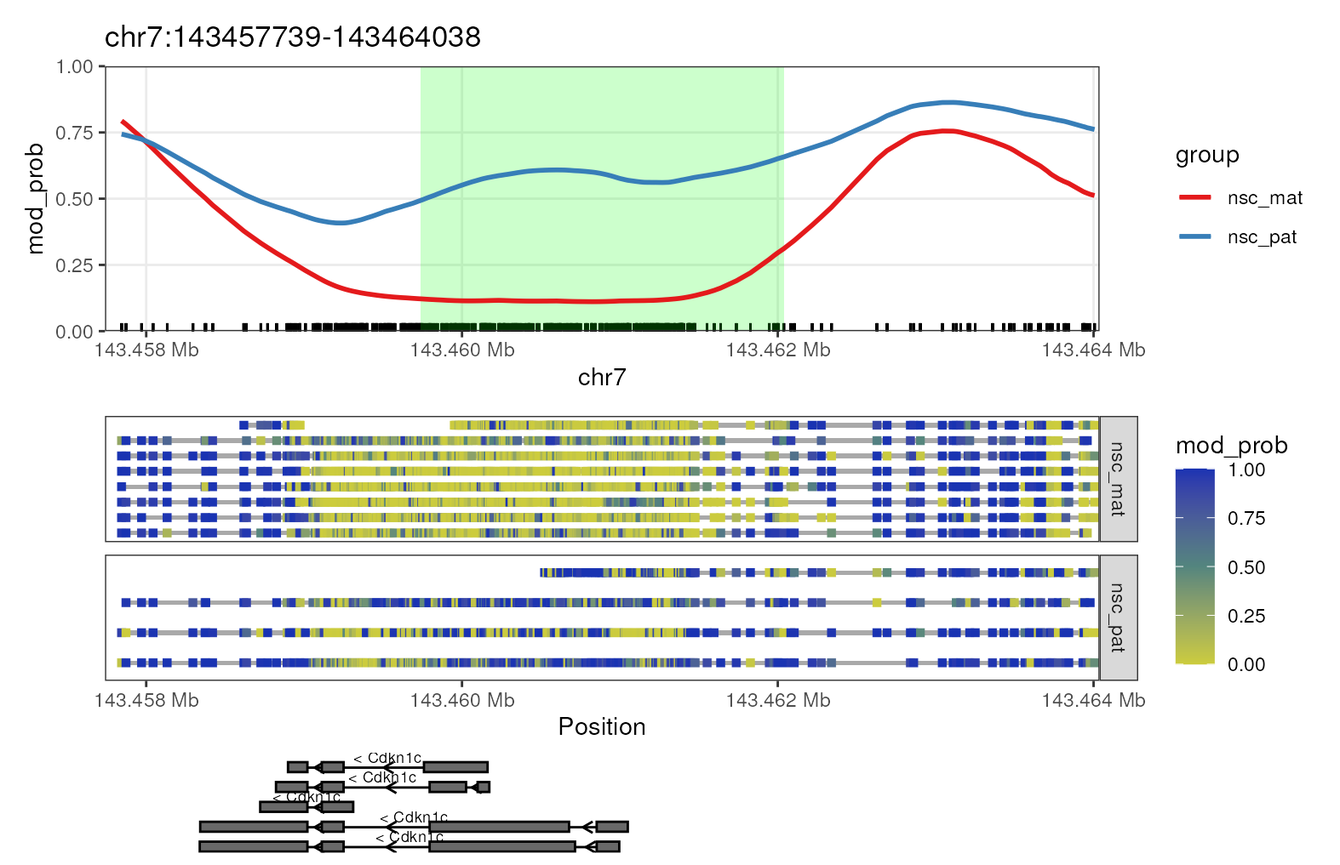
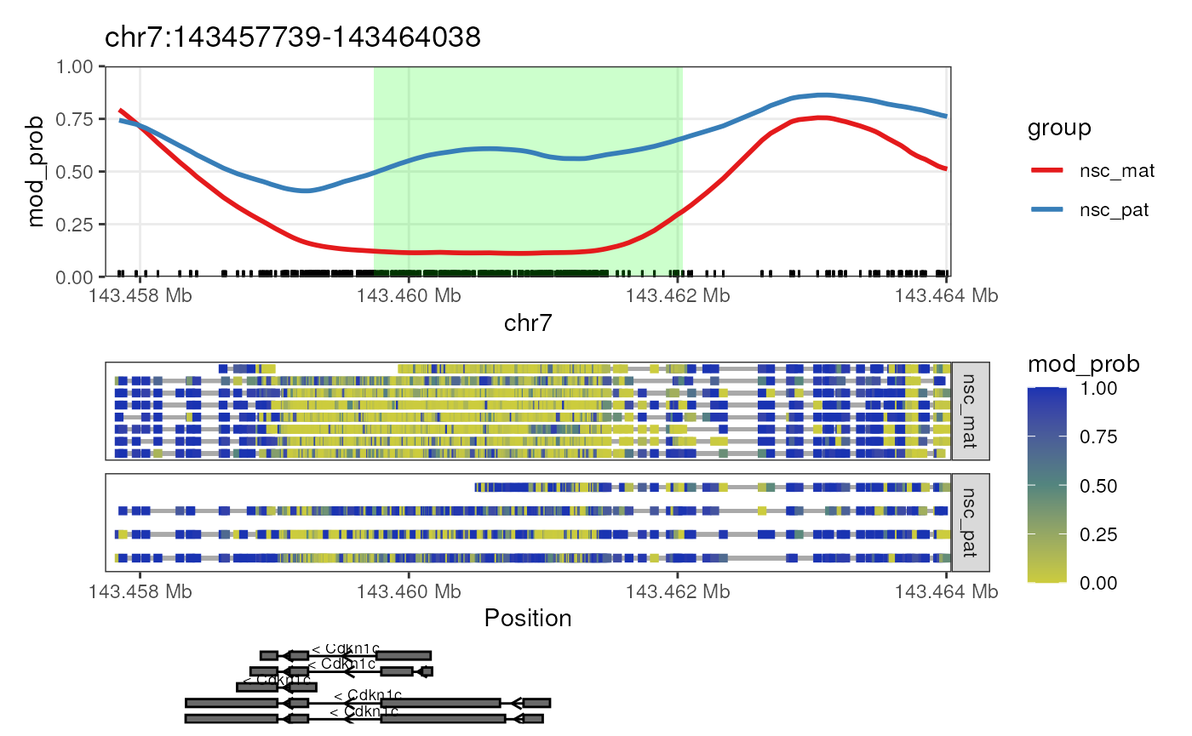
Deploying to gh-pages from @ mritchielab/LongMod123@ba4b5e0acd3b9cd36ce7c9ea2ae0c56e58bad41e 🚀

diff --git a/articles/workflow.html b/articles/workflow.html
@@ -76,24 +76,77 @@
     <div class="page-header toc-ignore">
       <h1 data-toc-skip>A streamlined workflow for long-read DNA
 methylation analysis with NanoMethViz and Bioconductor</h1>
-                        <h4 data-toc-skip class="author">Shian
-Su<sup>1</sup>, Lucinda Xiao<sup>1</sup>, James Lancaster<sup>1</sup>,
-Tamara Cameron<sup>1</sup>, Kelsey Breslin<sup>1</sup>, Peter F.
-Hickey<sup>1</sup>, Marnie E. Blewitt<sup>1</sup>, Quentin
-Gouil<sup>1</sup>, Matthew E. Ritchie<sup>1</sup>
-</h4>
-            
+                        <h4 data-toc-skip class="author">Shian Su</h4>
+            <address class="author_afil">
+      The Walter and Eliza Hall Institute of Medical Research,
+Parkville, Victoria, Australia; Department of Medical Biology, The
+University of Melbourne, Parkville, Victoria,
+Australia<br><h4 data-toc-skip class="author">Lucinda
+Xiao</h4>
+            <address class="author_afil">
+      The Walter and Eliza Hall Institute of Medical Research,
+Parkville, Victoria, Australia; Department of Medical Biology, The
+University of Melbourne, Parkville, Victoria,
+Australia<br><h4 data-toc-skip class="author">James
+Lancaster</h4>
+            <address class="author_afil">
+      The Walter and Eliza Hall Institute of Medical Research,
+Parkville, Victoria, Australia; Department of Medical Biology, The
+University of Melbourne, Parkville, Victoria,
+Australia<br><h4 data-toc-skip class="author">Tamara
+Cameron</h4>
+            <address class="author_afil">
+      The Walter and Eliza Hall Institute of Medical Research,
+Parkville, Victoria, Australia; Department of Medical Biology, The
+University of Melbourne, Parkville, Victoria,
+Australia<br><h4 data-toc-skip class="author">Kelsey
+Breslin</h4>
+            <address class="author_afil">
+      The Walter and Eliza Hall Institute of Medical Research,
+Parkville, Victoria, Australia; Department of Medical Biology, The
+University of Melbourne, Parkville, Victoria,
+Australia<br><h4 data-toc-skip class="author">Peter
+F. Hickey</h4>
+            <address class="author_afil">
+      The Walter and Eliza Hall Institute of Medical Research,
+Parkville, Victoria, Australia; Department of Medical Biology, The
+University of Melbourne, Parkville, Victoria,
+Australia<br><h4 data-toc-skip class="author">Marnie
+E. Blewitt</h4>
+            <address class="author_afil">
+      The Walter and Eliza Hall Institute of Medical Research,
+Parkville, Victoria, Australia; Department of Medical Biology, The
+University of Melbourne, Parkville, Victoria,
+Australia<br><h4 data-toc-skip class="author">Quentin
+Gouil</h4>
+            <address class="author_afil">
+      The Walter and Eliza Hall Institute of Medical Research,
+Parkville, Victoria, Australia; Department of Medical Biology, The
+University of Melbourne, Parkville, Victoria,
+Australia<br><h4 data-toc-skip class="author">Matthew
+E. Ritchie</h4>
+            <address class="author_afil">
+      The Walter and Eliza Hall Institute of Medical Research,
+Parkville, Victoria, Australia; Department of Medical Biology, The
+University of Melbourne, Parkville, Victoria,
+Australia<br><h4 data-toc-skip class="date">13 Nov 2024</h4>
       
-      <small class="dont-index">Source: <a href="https://github.com/mritchielab/LongMod123/blob/v1.0.0/vignettes/workflow.rmd" class="external-link"><code>vignettes/workflow.rmd</code></a></small>
+      <small class="dont-index">Source: <a href="https://github.com/mritchielab/LongMod123/blob/main/vignettes/workflow.rmd" class="external-link"><code>vignettes/workflow.rmd</code></a></small>
       <div class="hidden name"><code>workflow.rmd</code></div>
 
-    </div>
+    </address>
+</address>
+</address>
+</address>
+</address>
+</address>
+</address>
+</address>
+</address>
+</div>
 
     
     
-<p><sup>1</sup>The Walter and Eliza Hall Institute of Medical Research,
-Parkville, Victoria, Australia and Department of Medical Biology, The
-University of Melbourne, Parkville, Victoria, Australia.</p>
 <div class="section level2">
 <h2 id="abstract">Abstract<a class="anchor" aria-label="anchor" href="#abstract"></a>
 </h2>
@@ -198,7 +251,7 @@ reference genome, and phased with WhatsHap <span class="citation">(14)</span>, t
 the data focusing on chromosome 7, which contains several known
 imprinted genes.</p>
 <div class="figure">
-<img src="Figure1.png" alt="**Overview of the workflow**. (A) Experimental setup for the data used in this workflow, from Gocuk and Lancaster et al., 2024. (B) Flowchart of the workflow for long-read methylation data visualisation and analysis using `NanoMethViz` and other Bioconductor packages including `limma`, `dmrseq`, `bsseq`, and `edgeR`. (C) Summary of data structures for the storage of methylation data used in different parts of the workflow. Xi: inactive X. Xa: active X. CAST: Castaneus. 5mC: 5-methylcytosine. MDS: multidimensional scaling. DMR: differentially methylated region. Figure created with [BioRender.com](BioRender.com)." width="600"><p class="caption">
+<img src="Figure1.png" alt="**Overview of the workflow**. (A) Experimental setup for the data used in this workflow, from Gocuk and Lancaster et al., 2024. (B) Flowchart of the workflow for long-read methylation data visualisation and analysis using `NanoMethViz` and other Bioconductor packages including `limma`, `dmrseq`, `bsseq`, and `edgeR`. (C) Summary of data structures for the storage of methylation data used in different parts of the workflow. Xi: inactive X. Xa: active X. CAST: Castaneus. 5mC: 5-methylcytosine. MDS: multidimensional scaling. DMR: differentially methylated region. Figure created with [BioRender.com](BioRender.com)." width="1246"><p class="caption">
 <strong>Overview of the workflow</strong>. (A) Experimental setup for
 the data used in this workflow, from Gocuk and Lancaster et al., 2024.
 (B) Flowchart of the workflow for long-read methylation data
@@ -332,7 +385,7 @@ track showing the isoforms of the gene if exon annotation is provided
 <div class="sourceCode" id="cb10"><pre class="downlit sourceCode r">
 <code class="sourceCode R"><span><span class="fu"><a href="https://shians.github.io/NanoMethViz/reference/plot_gene.html" class="external-link">plot_gene</a></span><span class="op">(</span><span class="va">mbr</span>, <span class="st">"Peg3"</span><span class="op">)</span></span></code></pre></div>
 <div class="figure">
-<img src="workflow_files/figure-html/fig2-gene-peg3-1.png" alt="**Gene-level plot of Peg3**. This plot shows the methylation information along the *Peg3* gene on chromosome 7. The top track shows a rolling-smoothed average of methylation probability across the region, aggregated across samples within each experimental group. The middle track shows a heatmap of the methylation probabilities within individual reads, separated by experimental group. The bottom track shows isoform annotations for *Peg3*, with rectangles representing exons, lines representing introns and arrows representing the direction of transcription." width="600"><p class="caption">
+<img src="workflow_files/figure-html/fig2-gene-peg3-1.png" alt="**Gene-level plot of Peg3**. This plot shows the methylation information along the *Peg3* gene on chromosome 7. The top track shows a rolling-smoothed average of methylation probability across the region, aggregated across samples within each experimental group. The middle track shows a heatmap of the methylation probabilities within individual reads, separated by experimental group. The bottom track shows isoform annotations for *Peg3*, with rectangles representing exons, lines representing introns and arrows representing the direction of transcription." width="700"><p class="caption">
 <strong>Gene-level plot of Peg3</strong>. This plot shows the
 methylation information along the <em>Peg3</em> gene on chromosome 7.
 The top track shows a rolling-smoothed average of methylation
@@ -421,7 +474,7 @@ modification probability.</p>
 <code class="sourceCode R"><span><span class="va">gene_anno</span> <span class="op">&lt;-</span> <span class="fu"><a href="https://shians.github.io/NanoMethViz/reference/exons_to_genes.html" class="external-link">exons_to_genes</a></span><span class="op">(</span><span class="fu"><a href="https://shians.github.io/NanoMethViz/reference/exons.html" class="external-link">exons</a></span><span class="op">(</span><span class="va">nmr</span><span class="op">)</span><span class="op">)</span></span>
 <span><span class="fu"><a href="https://shians.github.io/NanoMethViz/reference/plot_agg_regions.html" class="external-link">plot_agg_regions</a></span><span class="op">(</span><span class="va">nmr</span>, regions <span class="op">=</span> <span class="fu"><a href="https://dplyr.tidyverse.org/reference/slice.html" class="external-link">slice_sample</a></span><span class="op">(</span><span class="va">gene_anno</span>, n <span class="op">=</span> <span class="fl">200</span><span class="op">)</span>, group_col <span class="op">=</span> <span class="st">"group"</span><span class="op">)</span></span></code></pre></div>
 <div class="figure">
-<img src="workflow_files/figure-html/fig3-gene-agg-1.png" alt="**Aggregated gene-level plot**. The mean methylation proportion is shown across a sample of 200 genes in chromosome 7, aggregated by experimental group. Methylation proportions are individual CpG sites are calculated along relative genomic positions, with fixed flanking regions, then averaged across all genes in each experimental group to produce a smoothed trendline. The x-axis label gives the average width and standard deviation of widths of the features used." width="600"><p class="caption">
+<img src="workflow_files/figure-html/fig3-gene-agg-1.png" alt="**Aggregated gene-level plot**. The mean methylation proportion is shown across a sample of 200 genes in chromosome 7, aggregated by experimental group. Methylation proportions are individual CpG sites are calculated along relative genomic positions, with fixed flanking regions, then averaged across all genes in each experimental group to produce a smoothed trendline. The x-axis label gives the average width and standard deviation of widths of the features used." width="700"><p class="caption">
 <strong>Aggregated gene-level plot</strong>. The mean methylation
 proportion is shown across a sample of 200 genes in chromosome 7,
 aggregated by experimental group. Methylation proportions are individual
@@ -469,7 +522,7 @@ the mean methylation profile across CpG islands on chromosome 7 (Figure
 <div class="sourceCode" id="cb17"><pre class="downlit sourceCode r">
 <code class="sourceCode R"><span><span class="fu"><a href="https://shians.github.io/NanoMethViz/reference/plot_agg_regions.html" class="external-link">plot_agg_regions</a></span><span class="op">(</span><span class="va">nmr</span>, <span class="va">cgi_anno</span>, group_col <span class="op">=</span> <span class="st">"group"</span><span class="op">)</span></span></code></pre></div>
 <div class="figure">
-<img src="workflow_files/figure-html/fig4-cgi-agg-1.png" alt="**Aggregated CpG island-level plot**. The mean methylation proportion is shown across CpG islands on chromosome 7, aggregated by experimental group. Methylation proportions are individual CpG sites are calculated along relative genomic positions, with fixed flanking regions, then averaged across all CpG islands in each experimental group to produce a smoothed trendline." width="600"><p class="caption">
+<img src="workflow_files/figure-html/fig4-cgi-agg-1.png" alt="**Aggregated CpG island-level plot**. The mean methylation proportion is shown across CpG islands on chromosome 7, aggregated by experimental group. Methylation proportions are individual CpG sites are calculated along relative genomic positions, with fixed flanking regions, then averaged across all CpG islands in each experimental group to produce a smoothed trendline." width="700"><p class="caption">
 <strong>Aggregated CpG island-level plot</strong>. The mean methylation
 proportion is shown across CpG islands on chromosome 7, aggregated by
 experimental group. Methylation proportions are individual CpG sites are
@@ -557,7 +610,7 @@ create the MDS plot (Figure @ref(fig:fig5-mds)).</p>
 <span></span>
 <span><span class="fu"><a href="https://shians.github.io/NanoMethViz/reference/plot_mds.html" class="external-link">plot_mds</a></span><span class="op">(</span><span class="va">lmr</span>, groups <span class="op">=</span> <span class="va">bss</span><span class="op">$</span><span class="va">group</span><span class="op">)</span></span></code></pre></div>
 <div class="figure">
-<img src="workflow_files/figure-html/fig5-mds-1.png" alt="**MDS plot**, The multi-dimensional plot is created based on the top 500 most variable genes in on chromosome 7 in terms of log-methylation-ratio over the gene bodies. The samples are coloured by group, and distances between samples is reflective of the difference in the methylation profile across genes in each sample." width="600"><p class="caption">
+<img src="workflow_files/figure-html/fig5-mds-1.png" alt="**MDS plot**, The multi-dimensional plot is created based on the top 500 most variable genes in on chromosome 7 in terms of log-methylation-ratio over the gene bodies. The samples are coloured by group, and distances between samples is reflective of the difference in the methylation profile across genes in each sample." width="700"><p class="caption">
 <strong>MDS plot</strong>, The multi-dimensional plot is created based
 on the top 500 most variable genes in on chromosome 7 in terms of
 log-methylation-ratio over the gene bodies. The samples are coloured by
@@ -727,7 +780,7 @@ regions fall near the TSS.</p>
 <span> <span class="fu">patchwork</span><span class="fu">::</span><span class="fu"><a href="https://patchwork.data-imaginist.com/reference/wrap_elements.html" class="external-link">wrap_elements</a></span><span class="op">(</span><span class="fu"><a href="https://shians.github.io/NanoMethViz/reference/plot_gene.html" class="external-link">plot_gene</a></span><span class="op">(</span><span class="va">nmr</span>, <span class="st">"Kcnq1ot1"</span>, anno_regions <span class="op">=</span> <span class="va">signif_regions</span><span class="op">)</span><span class="op">)</span> <span class="op">/</span></span>
 <span> <span class="fu">patchwork</span><span class="fu">::</span><span class="fu"><a href="https://patchwork.data-imaginist.com/reference/wrap_elements.html" class="external-link">wrap_elements</a></span><span class="op">(</span><span class="fu"><a href="https://shians.github.io/NanoMethViz/reference/plot_gene.html" class="external-link">plot_gene</a></span><span class="op">(</span><span class="va">nmr</span>, <span class="st">"Cdkn1c"</span>, anno_regions <span class="op">=</span> <span class="va">signif_regions</span><span class="op">)</span><span class="op">)</span><span class="op">)</span></span></code></pre></div>
 <div class="figure">
-<img src="workflow_files/figure-html/fig6-dmr-genes-1.png" alt="**Gene plots with DMR**. The plots show the genes *Peg3*, *Kcnq1ot1*, and *Cdkn1c* along with green highlighted region denoting the DMR discovered by *dmrseq*." width="600"><p class="caption">
+<img src="workflow_files/figure-html/fig6-dmr-genes-1.png" alt="**Gene plots with DMR**. The plots show the genes *Peg3*, *Kcnq1ot1*, and *Cdkn1c* along with green highlighted region denoting the DMR discovered by *dmrseq*." width="841.92"><p class="caption">
 <strong>Gene plots with DMR</strong>. The plots show the genes
 <em>Peg3</em>, <em>Kcnq1ot1</em>, and <em>Cdkn1c</em> along with green
 highlighted region denoting the DMR discovered by <em>dmrseq</em>.
@@ -742,7 +795,7 @@ scope of the differentially methylated region (Figure
 <div class="sourceCode" id="cb28"><pre class="downlit sourceCode r">
 <code class="sourceCode R"><span><span class="fu"><a href="https://shians.github.io/NanoMethViz/reference/plot_region.html" class="external-link">plot_region</a></span><span class="op">(</span><span class="va">nmr</span>, <span class="st">"chr7"</span>, <span class="fl">143459739</span><span class="op">-</span><span class="fl">2000</span>, <span class="fl">143462038</span><span class="op">+</span><span class="fl">2000</span>, anno_regions <span class="op">=</span> <span class="va">signif_regions</span><span class="op">)</span></span></code></pre></div>
 <div class="figure">
-<img src="workflow_files/figure-html/fig7-cdkn1-expand-1.png" alt="**Expanded region around *Cdkn1c***. This plot shows a more expanded region around the gene *Cdkn1c* to show the full DMR." width="600"><p class="caption">
+<img src="workflow_files/figure-html/fig7-cdkn1-expand-1.png" alt="**Expanded region around *Cdkn1c***. This plot shows a more expanded region around the gene *Cdkn1c* to show the full DMR." width="700"><p class="caption">
 <strong>Expanded region around <em>Cdkn1c</em></strong>. This plot shows
 a more expanded region around the gene <em>Cdkn1c</em> to show the full
 DMR.
@@ -787,8 +840,7 @@ tested.</p>
 </h2>
 <p>This workflow makes use of various R packages available from the
 Bioconductor project, with version numbers shown below. The
-<code>LongMod123</code> workflow package itself is available at and from
-Bioconductor.</p>
+<code>LongMod123</code> workflow package itself is available at <a href="https://github.com/mritchielab/LongMod123" class="external-link">https://github.com/mritchielab/LongMod123</a>.</p>
 <div class="sourceCode" id="cb29"><pre class="downlit sourceCode r">
 <code class="sourceCode R"><span><span class="fu"><a href="https://rdrr.io/r/utils/sessionInfo.html" class="external-link">sessionInfo</a></span><span class="op">(</span><span class="op">)</span></span></code></pre></div>
 <pre><code><span><span class="co">## R version 4.4.1 (2024-06-14)</span></span>
@@ -824,6 +876,7 @@ Bioconductor.</p>
 <span><span class="co">## [13] GenomeInfoDb_1.42.0         IRanges_2.40.0             </span></span>
 <span><span class="co">## [15] S4Vectors_0.44.0            BiocGenerics_0.52.0        </span></span>
 <span><span class="co">## [17] BiocFileCache_2.14.0        dbplyr_2.5.0               </span></span>
+<span><span class="co">## [19] BiocStyle_2.34.0           </span></span>
 <span><span class="co">## </span></span>
 <span><span class="co">## loaded via a namespace (and not attached):</span></span>
 <span><span class="co">##   [1] splines_4.4.1                            </span></span>
@@ -910,66 +963,67 @@ Bioconductor.</p>
 <span><span class="co">##  [82] blob_1.2.4                               </span></span>
 <span><span class="co">##  [83] XVector_0.46.0                           </span></span>
 <span><span class="co">##  [84] htmltools_0.5.8.1                        </span></span>
-<span><span class="co">##  [85] scales_1.3.0                             </span></span>
-<span><span class="co">##  [86] png_0.1-8                                </span></span>
-<span><span class="co">##  [87] knitr_1.48                               </span></span>
-<span><span class="co">##  [88] tzdb_0.4.0                               </span></span>
-<span><span class="co">##  [89] reshape2_1.4.4                           </span></span>
-<span><span class="co">##  [90] rjson_0.2.23                             </span></span>
-<span><span class="co">##  [91] nlme_3.1-166                             </span></span>
-<span><span class="co">##  [92] curl_5.2.3                               </span></span>
-<span><span class="co">##  [93] bumphunter_1.48.0                        </span></span>
-<span><span class="co">##  [94] proxy_0.4-27                             </span></span>
-<span><span class="co">##  [95] cachem_1.1.0                             </span></span>
-<span><span class="co">##  [96] rhdf5_2.50.0                             </span></span>
-<span><span class="co">##  [97] stringr_1.5.1                            </span></span>
-<span><span class="co">##  [98] BiocVersion_3.20.0                       </span></span>
-<span><span class="co">##  [99] vipor_0.4.7                              </span></span>
-<span><span class="co">## [100] parallel_4.4.1                           </span></span>
-<span><span class="co">## [101] AnnotationDbi_1.68.0                     </span></span>
-<span><span class="co">## [102] ggrastr_1.0.2                            </span></span>
-<span><span class="co">## [103] restfulr_0.0.15                          </span></span>
-<span><span class="co">## [104] desc_1.4.3                               </span></span>
-<span><span class="co">## [105] pillar_1.9.0                             </span></span>
-<span><span class="co">## [106] grid_4.4.1                               </span></span>
-<span><span class="co">## [107] vctrs_0.6.5                              </span></span>
-<span><span class="co">## [108] BiocSingular_1.22.0                      </span></span>
-<span><span class="co">## [109] beachmat_2.22.0                          </span></span>
-<span><span class="co">## [110] beeswarm_0.4.0                           </span></span>
-<span><span class="co">## [111] evaluate_1.0.1                           </span></span>
-<span><span class="co">## [112] GenomicFeatures_1.58.0                   </span></span>
-<span><span class="co">## [113] cli_3.6.3                                </span></span>
-<span><span class="co">## [114] locfit_1.5-9.10                          </span></span>
-<span><span class="co">## [115] compiler_4.4.1                           </span></span>
-<span><span class="co">## [116] Rsamtools_2.22.0                         </span></span>
-<span><span class="co">## [117] rlang_1.1.4                              </span></span>
-<span><span class="co">## [118] crayon_1.5.3                             </span></span>
-<span><span class="co">## [119] rngtools_1.5.2                           </span></span>
-<span><span class="co">## [120] labeling_0.4.3                           </span></span>
-<span><span class="co">## [121] ggbeeswarm_0.7.2                         </span></span>
-<span><span class="co">## [122] plyr_1.8.9                               </span></span>
+<span><span class="co">##  [85] bookdown_0.41                            </span></span>
+<span><span class="co">##  [86] scales_1.3.0                             </span></span>
+<span><span class="co">##  [87] png_0.1-8                                </span></span>
+<span><span class="co">##  [88] knitr_1.48                               </span></span>
+<span><span class="co">##  [89] tzdb_0.4.0                               </span></span>
+<span><span class="co">##  [90] reshape2_1.4.4                           </span></span>
+<span><span class="co">##  [91] rjson_0.2.23                             </span></span>
+<span><span class="co">##  [92] nlme_3.1-166                             </span></span>
+<span><span class="co">##  [93] curl_5.2.3                               </span></span>
+<span><span class="co">##  [94] bumphunter_1.48.0                        </span></span>
+<span><span class="co">##  [95] proxy_0.4-27                             </span></span>
+<span><span class="co">##  [96] cachem_1.1.0                             </span></span>
+<span><span class="co">##  [97] rhdf5_2.50.0                             </span></span>
+<span><span class="co">##  [98] stringr_1.5.1                            </span></span>
+<span><span class="co">##  [99] BiocVersion_3.20.0                       </span></span>
+<span><span class="co">## [100] vipor_0.4.7                              </span></span>
+<span><span class="co">## [101] parallel_4.4.1                           </span></span>
+<span><span class="co">## [102] AnnotationDbi_1.68.0                     </span></span>
+<span><span class="co">## [103] ggrastr_1.0.2                            </span></span>
+<span><span class="co">## [104] restfulr_0.0.15                          </span></span>
+<span><span class="co">## [105] desc_1.4.3                               </span></span>
+<span><span class="co">## [106] pillar_1.9.0                             </span></span>
+<span><span class="co">## [107] grid_4.4.1                               </span></span>
+<span><span class="co">## [108] vctrs_0.6.5                              </span></span>
+<span><span class="co">## [109] BiocSingular_1.22.0                      </span></span>
+<span><span class="co">## [110] beachmat_2.22.0                          </span></span>
+<span><span class="co">## [111] beeswarm_0.4.0                           </span></span>
+<span><span class="co">## [112] evaluate_1.0.1                           </span></span>
+<span><span class="co">## [113] GenomicFeatures_1.58.0                   </span></span>
+<span><span class="co">## [114] cli_3.6.3                                </span></span>
+<span><span class="co">## [115] locfit_1.5-9.10                          </span></span>
+<span><span class="co">## [116] compiler_4.4.1                           </span></span>
+<span><span class="co">## [117] Rsamtools_2.22.0                         </span></span>
+<span><span class="co">## [118] rlang_1.1.4                              </span></span>
+<span><span class="co">## [119] crayon_1.5.3                             </span></span>
+<span><span class="co">## [120] rngtools_1.5.2                           </span></span>
+<span><span class="co">## [121] labeling_0.4.3                           </span></span>
+<span><span class="co">## [122] ggbeeswarm_0.7.2                         </span></span>
 <span><span class="co">## [123] forcats_1.0.0                            </span></span>
-<span><span class="co">## [124] fs_1.6.4                                 </span></span>
-<span><span class="co">## [125] TxDb.Mmusculus.UCSC.mm10.knownGene_3.10.0</span></span>
-<span><span class="co">## [126] stringi_1.8.4                            </span></span>
-<span><span class="co">## [127] BiocParallel_1.40.0                      </span></span>
-<span><span class="co">## [128] assertthat_0.2.1                         </span></span>
-<span><span class="co">## [129] munsell_0.5.1                            </span></span>
-<span><span class="co">## [130] Biostrings_2.74.0                        </span></span>
-<span><span class="co">## [131] Matrix_1.7-1                             </span></span>
-<span><span class="co">## [132] BSgenome_1.74.0                          </span></span>
-<span><span class="co">## [133] hms_1.1.3                                </span></span>
-<span><span class="co">## [134] patchwork_1.3.0                          </span></span>
-<span><span class="co">## [135] sparseMatrixStats_1.18.0                 </span></span>
-<span><span class="co">## [136] bit64_4.5.2                              </span></span>
-<span><span class="co">## [137] Rhdf5lib_1.28.0                          </span></span>
-<span><span class="co">## [138] KEGGREST_1.46.0                          </span></span>
-<span><span class="co">## [139] statmod_1.5.0                            </span></span>
-<span><span class="co">## [140] highr_0.11                               </span></span>
-<span><span class="co">## [141] AnnotationHub_3.14.0                     </span></span>
-<span><span class="co">## [142] memoise_2.0.1                            </span></span>
-<span><span class="co">## [143] bslib_0.8.0                              </span></span>
-<span><span class="co">## [144] bit_4.5.0</span></span></code></pre>
+<span><span class="co">## [124] plyr_1.8.9                               </span></span>
+<span><span class="co">## [125] fs_1.6.4                                 </span></span>
+<span><span class="co">## [126] TxDb.Mmusculus.UCSC.mm10.knownGene_3.10.0</span></span>
+<span><span class="co">## [127] stringi_1.8.4                            </span></span>
+<span><span class="co">## [128] BiocParallel_1.40.0                      </span></span>
+<span><span class="co">## [129] assertthat_0.2.1                         </span></span>
+<span><span class="co">## [130] munsell_0.5.1                            </span></span>
+<span><span class="co">## [131] Biostrings_2.74.0                        </span></span>
+<span><span class="co">## [132] Matrix_1.7-1                             </span></span>
+<span><span class="co">## [133] BSgenome_1.74.0                          </span></span>
+<span><span class="co">## [134] hms_1.1.3                                </span></span>
+<span><span class="co">## [135] patchwork_1.3.0                          </span></span>
+<span><span class="co">## [136] sparseMatrixStats_1.18.0                 </span></span>
+<span><span class="co">## [137] bit64_4.5.2                              </span></span>
+<span><span class="co">## [138] Rhdf5lib_1.28.0                          </span></span>
+<span><span class="co">## [139] KEGGREST_1.46.0                          </span></span>
+<span><span class="co">## [140] statmod_1.5.0                            </span></span>
+<span><span class="co">## [141] highr_0.11                               </span></span>
+<span><span class="co">## [142] AnnotationHub_3.14.0                     </span></span>
+<span><span class="co">## [143] memoise_2.0.1                            </span></span>
+<span><span class="co">## [144] bslib_0.8.0                              </span></span>
+<span><span class="co">## [145] bit_4.5.0</span></span></code></pre>
 </div>
 <div class="section level2">
 <h2 id="author-contributions">Author contributions<a class="anchor" aria-label="anchor" href="#author-contributions"></a>

diff --git a/authors.html b/authors.html
@@ -63,7 +63,7 @@
     <div class="section level2 citation-section">
     <div>
       <h1 id="citation">Citation</h1>
-      <small class="dont-index">Source: <a href="https://github.com/mritchielab/LongMod123/blob/v1.0.0/DESCRIPTION" class="external-link"><code>DESCRIPTION</code></a></small>
+      <small class="dont-index">Source: <a href="https://github.com/mritchielab/LongMod123/blob/main/DESCRIPTION" class="external-link"><code>DESCRIPTION</code></a></small>
     </div>
     </div>
 
